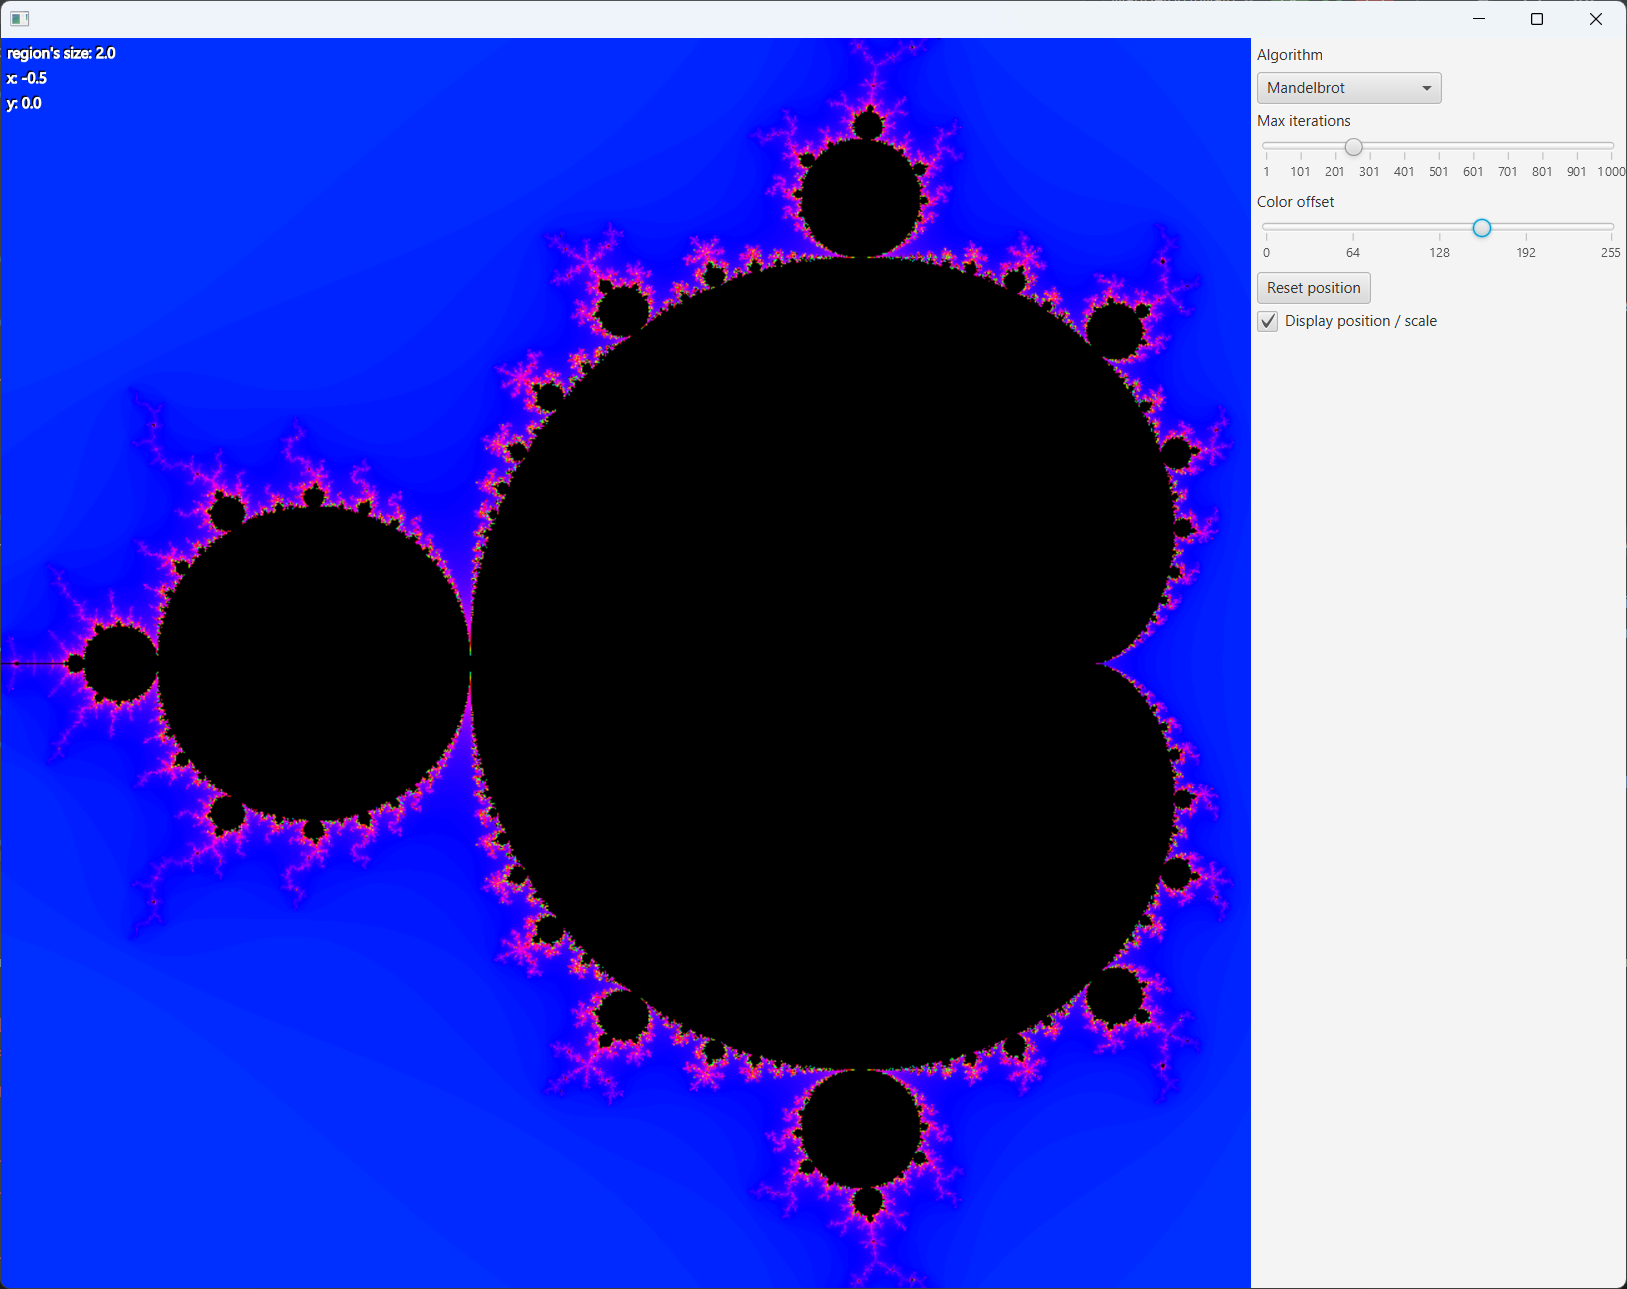
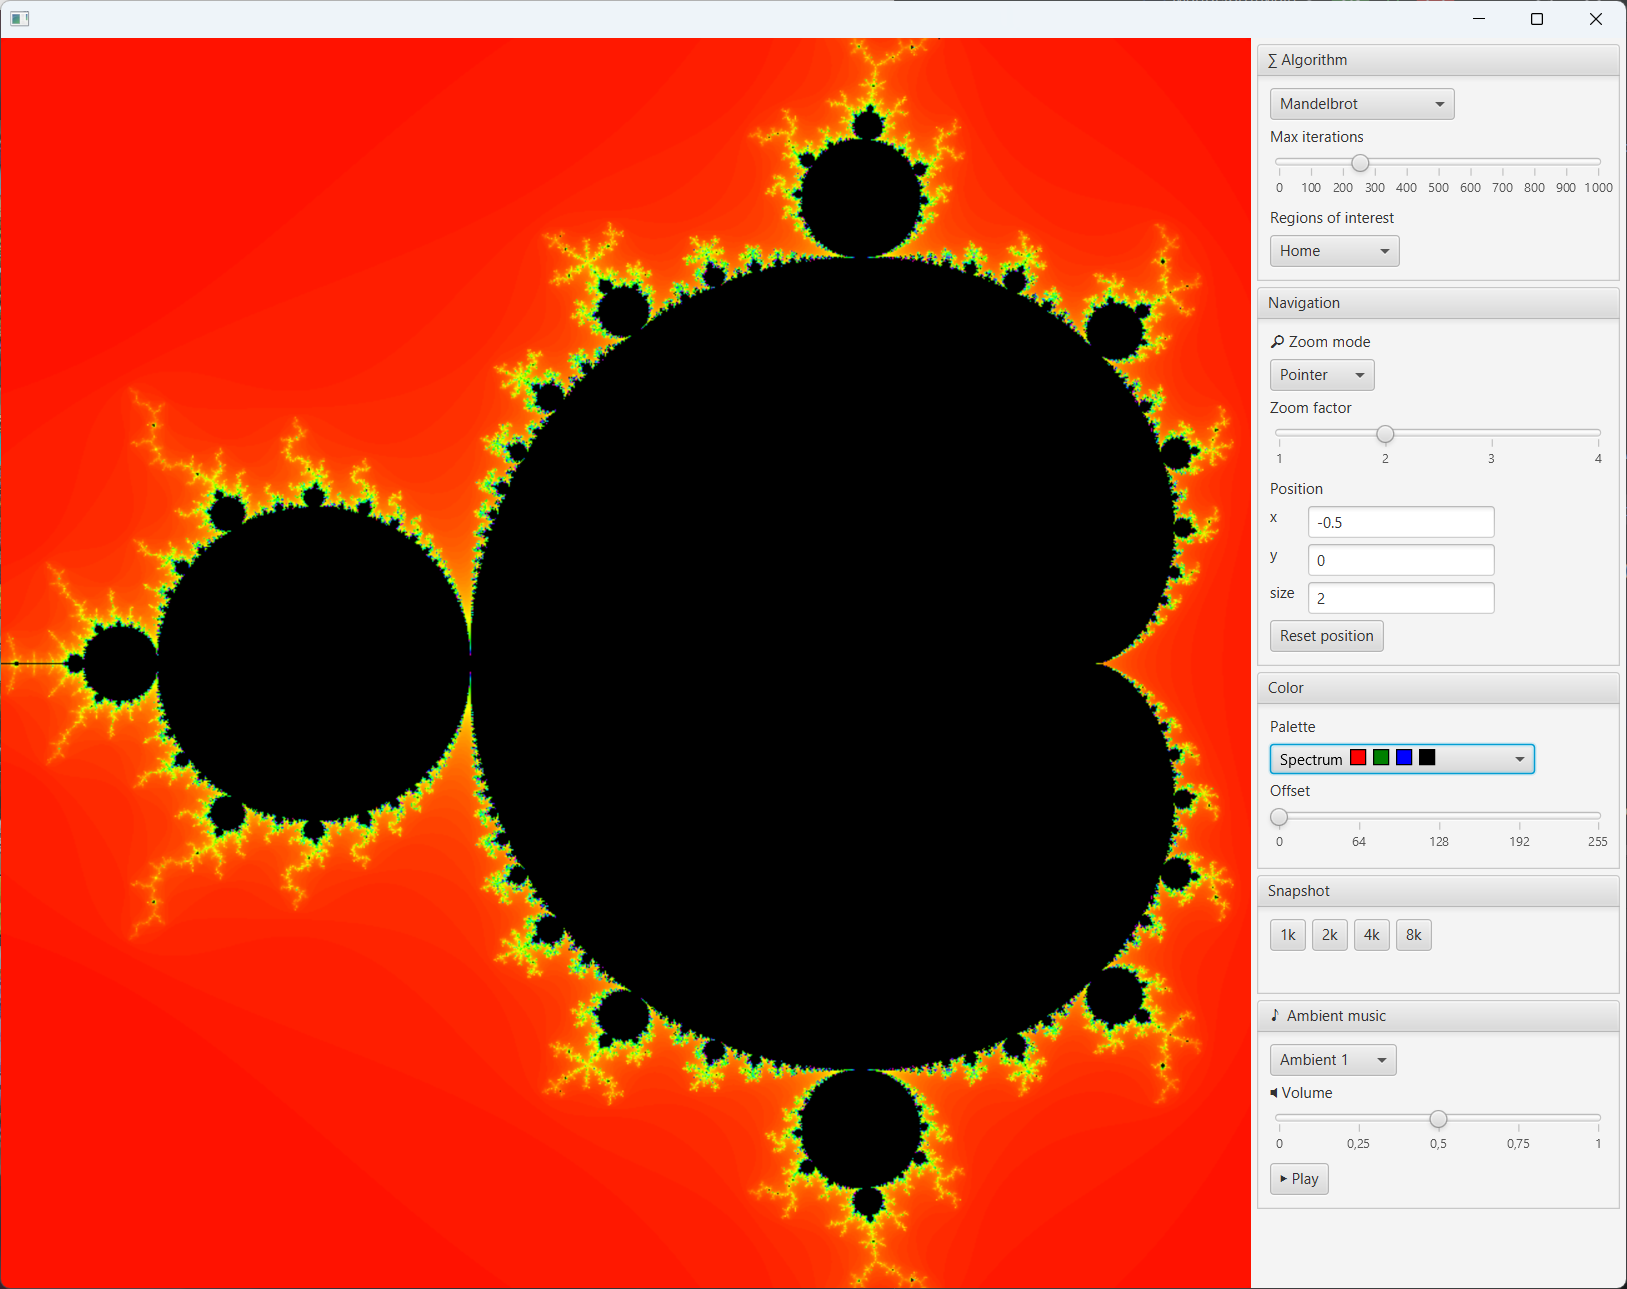
Snapshots

diff --git a/src/main/java/com/codesimcoe/mandelbrotfx/Mandelbrot.java b/src/main/java/com/codesimcoe/mandelbrotfx/Mandelbrot.java
@@ -14,6 +14,7 @@ import com.codesimcoe.mandelbrotfx.palette.ColorPalette;
 import com.codesimcoe.mandelbrotfx.palette.GradientColorPalettes;
 import com.codesimcoe.mandelbrotfx.palette.GrayscaleColorPalette;
 import com.codesimcoe.mandelbrotfx.palette.SpectrumColorPalette;
+import javafx.application.Platform;
 import javafx.beans.binding.Bindings;
 import javafx.beans.property.DoubleProperty;
 import javafx.beans.property.IntegerProperty;
@@ -28,6 +29,8 @@ import javafx.scene.canvas.Canvas;
 import javafx.scene.control.Button;
 import javafx.scene.control.ComboBox;
 import javafx.scene.control.Label;
+import javafx.scene.control.ProgressBar;
+import javafx.scene.control.ProgressIndicator;
 import javafx.scene.control.Slider;
 import javafx.scene.control.TextField;
 import javafx.scene.control.TitledPane;
@@ -44,6 +47,9 @@ import javax.imageio.ImageIO;
 import java.awt.image.BufferedImage;
 import java.io.File;
 import java.io.IOException;
+import java.util.ArrayList;
+import java.util.List;
+import java.util.concurrent.CompletableFuture;
 import java.util.stream.IntStream;
 
 /**
@@ -108,7 +114,11 @@ public class Mandelbrot {
   private MediaPlayer mediaPlayer;
   private boolean musicPlaying = false;
 
-  int updateNumber = 0;
+  // Snapshot
+  private final List<Button> snapshotButtons = new ArrayList<>();
+  private final ProgressBar snapshotProgressBar = new ProgressBar(ProgressIndicator.INDETERMINATE_PROGRESS);
+
+  private int updateNumber = 0;
 
   // Points of interest
   private final ComboBox<RegionOfInterest> regionsOfInterestComboBox = new ComboBox<>();
@@ -359,16 +369,16 @@ public class Mandelbrot {
       return;
     }
 
-    // Determine color
-    // Apply offset
+    // Determine color and apply offset
     int color;
+    int colorOffset = this.colorOffsetProperty.intValue();
     for (int x = 0; x < width; x++) {
       for (int y = 0; y < height; y++) {
         int iterations = iterationsPixels[x][y];
         if (iterations == max) {
           color = colors[max];
         } else {
-          int colorIndex = (iterations + this.colorOffsetProperty.intValue()) % max;
+          int colorIndex = (iterations + colorOffset) % max;
           color = colors[colorIndex];
         }
 
@@ -553,23 +563,24 @@ public class Mandelbrot {
     );
 
     // Snapshot
-    Button snapshot1kButton = new Button("1k");
-    Button snapshot2kButton = new Button("2k");
-    Button snapshot4kButton = new Button("4k");
-    Button snapshot8kButton = new Button("8k");
+    this.snapshotProgressBar.setMaxWidth(Double.MAX_VALUE);
+    for (SnapshotMode mode : SnapshotMode.values()) {
+      Button snapshotButton = new Button(mode.getName());
+      snapshotButton.setOnAction(_ -> {
+        this.snapshotButtons.forEach(b -> b.setDisable(true));
+        this.snapshotProgressBar.setVisible(true);
+        CompletableFuture.runAsync(() -> this.takeSnapshot(mode));
+      });
+      this.snapshotButtons.add(snapshotButton);
+    }
     HBox snapshotButtonsBox = new HBox(
       GAP,
-      snapshot1kButton,
-      snapshot2kButton,
-      snapshot4kButton,
-      snapshot8kButton
+      this.snapshotButtons.toArray(new Button[] {})
     );
 
-    snapshot1kButton.setOnAction(_ -> this.takeSnapshot(1024));
-    snapshot2kButton.setOnAction(_ -> this.takeSnapshot(2048));
-    snapshot4kButton.setOnAction(_ -> this.takeSnapshot(4096));
-    snapshot8kButton.setOnAction(_ -> this.takeSnapshot(8192));
-    TitledPane snapshotPane = buildTitledPane("Snapshot", snapshotButtonsBox);
+
+    this.snapshotProgressBar.setVisible(false);
+    TitledPane snapshotPane = buildTitledPane("Snapshot", snapshotButtonsBox, this.snapshotProgressBar);
 
     // Select music
     ComboBox<NamedMusic> musicSelectionComboBox = new ComboBox<>();
@@ -651,10 +662,10 @@ public class Mandelbrot {
     return titledPane;
   }
 
-  private void takeSnapshot(final int resolution) {
+  private void takeSnapshot(final SnapshotMode mode) {
 
-    int w = resolution;
-    int h = resolution;
+    int w = mode.getResolution();
+    int h = mode.getResolution();
     int[][] itPixels = new int[w][h];
     int[] pixels = new int[w * h];
 
@@ -667,12 +678,19 @@ public class Mandelbrot {
     BufferedImage bufferedImage = new BufferedImage(w, h, BufferedImage.TYPE_INT_ARGB);
     bufferedImage.setRGB(0, 0, w, h, pixels, 0, w);
 
+    File outputFile = null;
     try {
-      File outputFile = new File("snap.png");
+      String filename = this.fractal.get().getName() + "-" + mode.getName() + "-" + this.updateNumber + ".png";
+      outputFile = new File(filename);
       ImageIO.write(bufferedImage, "png", outputFile);
       System.out.println("PNG image saved as " + outputFile.getAbsolutePath());
     } catch (IOException e) {
-      e.printStackTrace();
+      System.err.println("Failed to save snapshot file " + outputFile.getAbsolutePath());
+    } finally {
+      Platform.runLater(() -> {
+        this.snapshotButtons.forEach(b -> b.setDisable(false));
+        this.snapshotProgressBar.setVisible(false);
+      });
     }
   }
 }

diff --git a/src/main/java/com/codesimcoe/mandelbrotfx/SnapshotMode.java b/src/main/java/com/codesimcoe/mandelbrotfx/SnapshotMode.java
@@ -1,0 +1,24 @@
+package com.codesimcoe.mandelbrotfx;
+
+public enum SnapshotMode {
+  _1K("1k", 1024),
+  _2K("2k", 2048),
+  _3K("4k", 4096),
+  _4K("8k", 8192);
+
+  private final String name;
+  private final int resolution;
+
+  SnapshotMode(final String name, final int resolution) {
+    this.name = name;
+    this.resolution = resolution;
+  }
+
+  public String getName() {
+    return this.name;
+  }
+
+  public int getResolution() {
+    return this.resolution;
+  }
+}

diff --git a/README.md b/README.md
@@ -25,6 +25,7 @@ Multiple fractal algorithms are available :
 ![](pictures/pic8.png)
 ![](pictures/pic9.png)
 ![](pictures/pic10.png)
+![](pictures/pic11.png)
 
 ## Music
 
